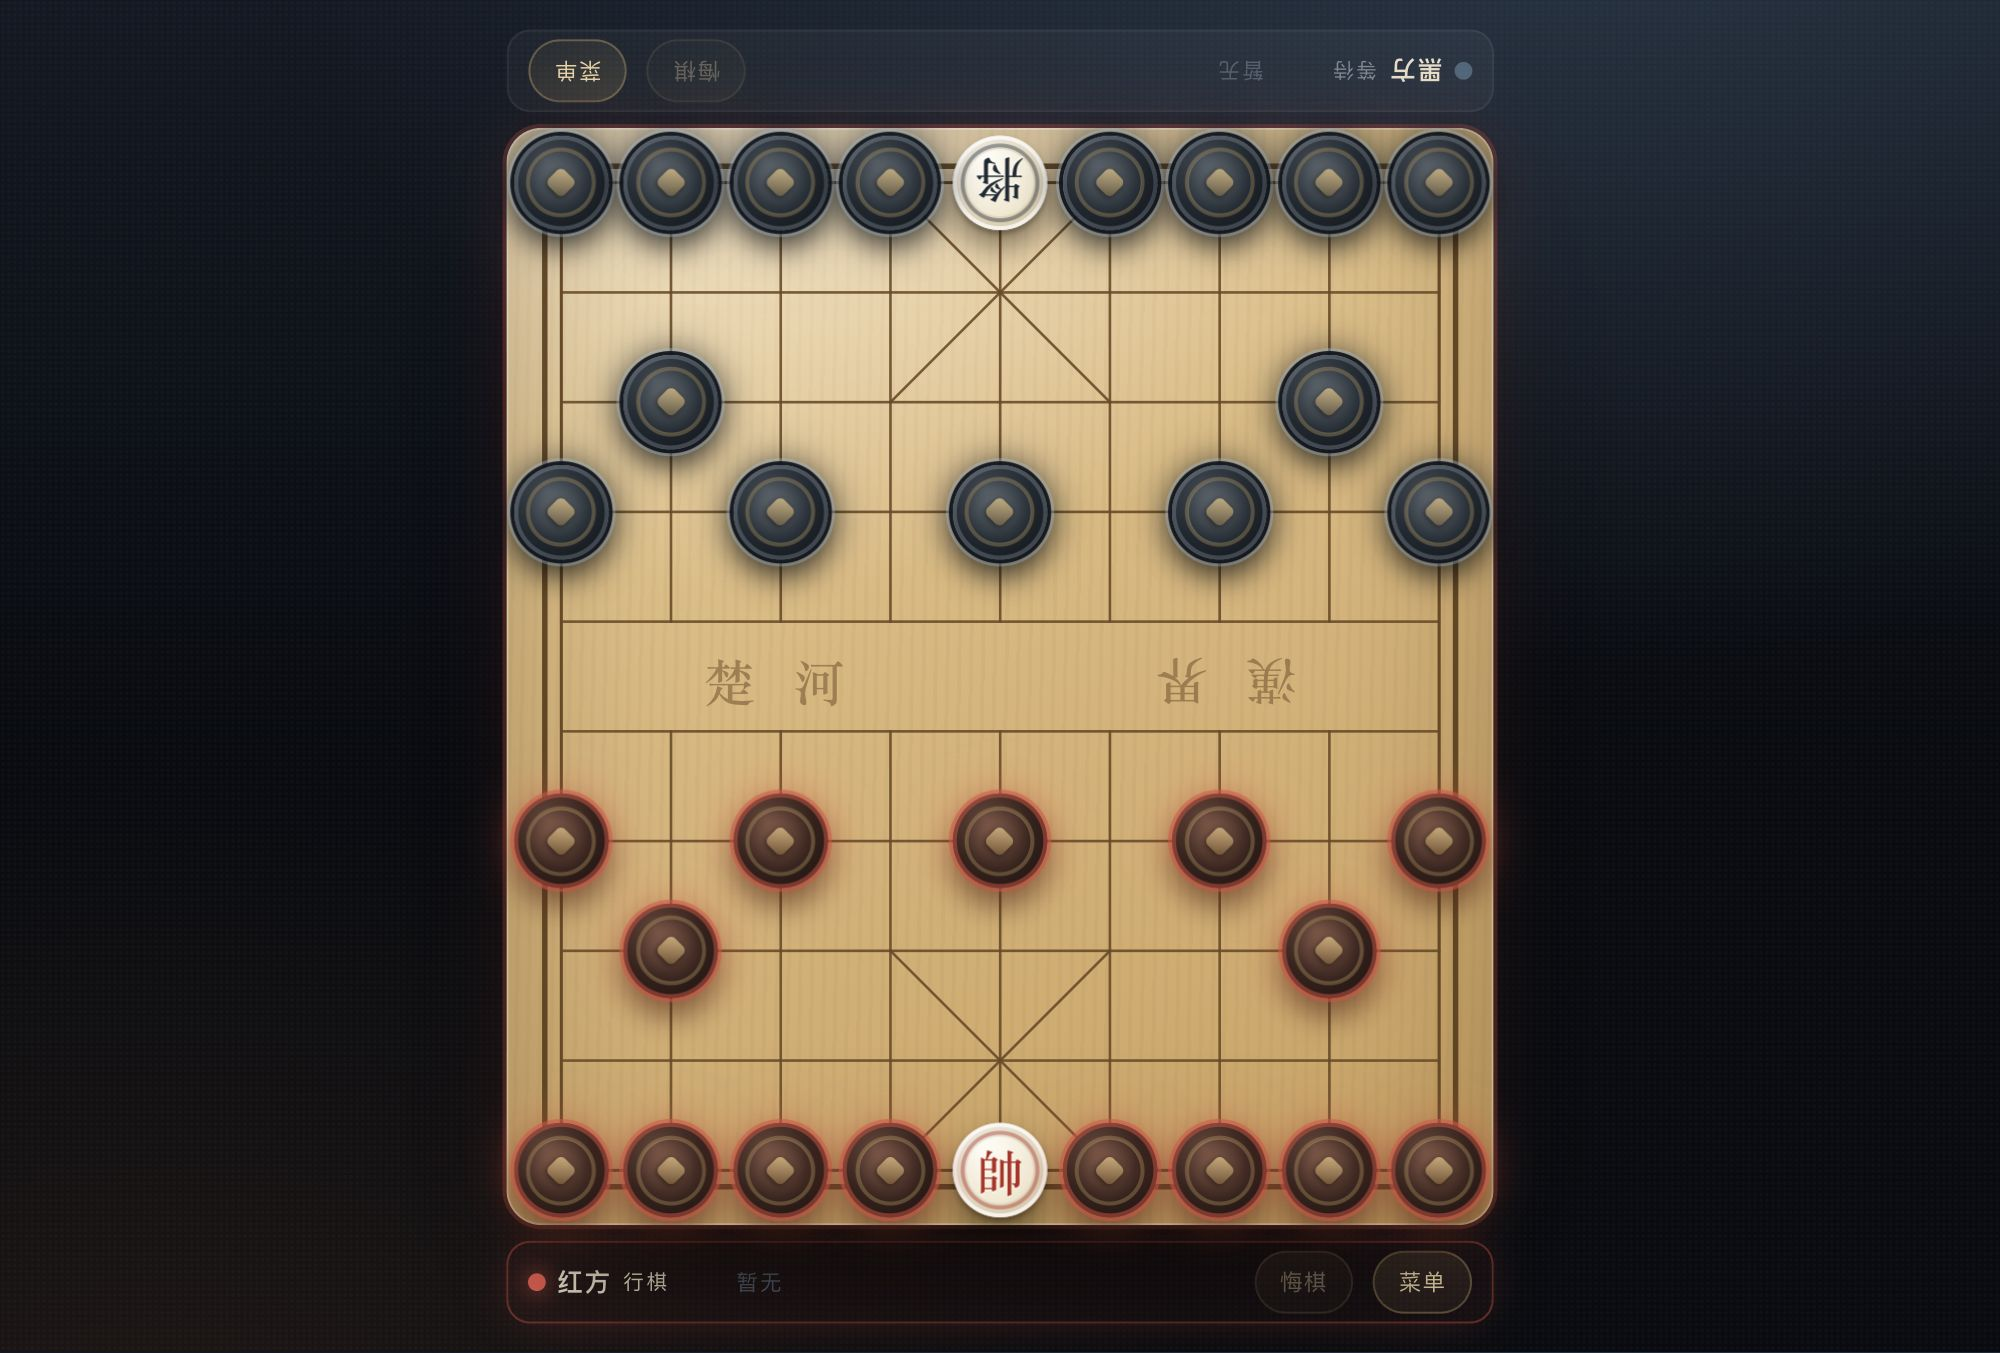
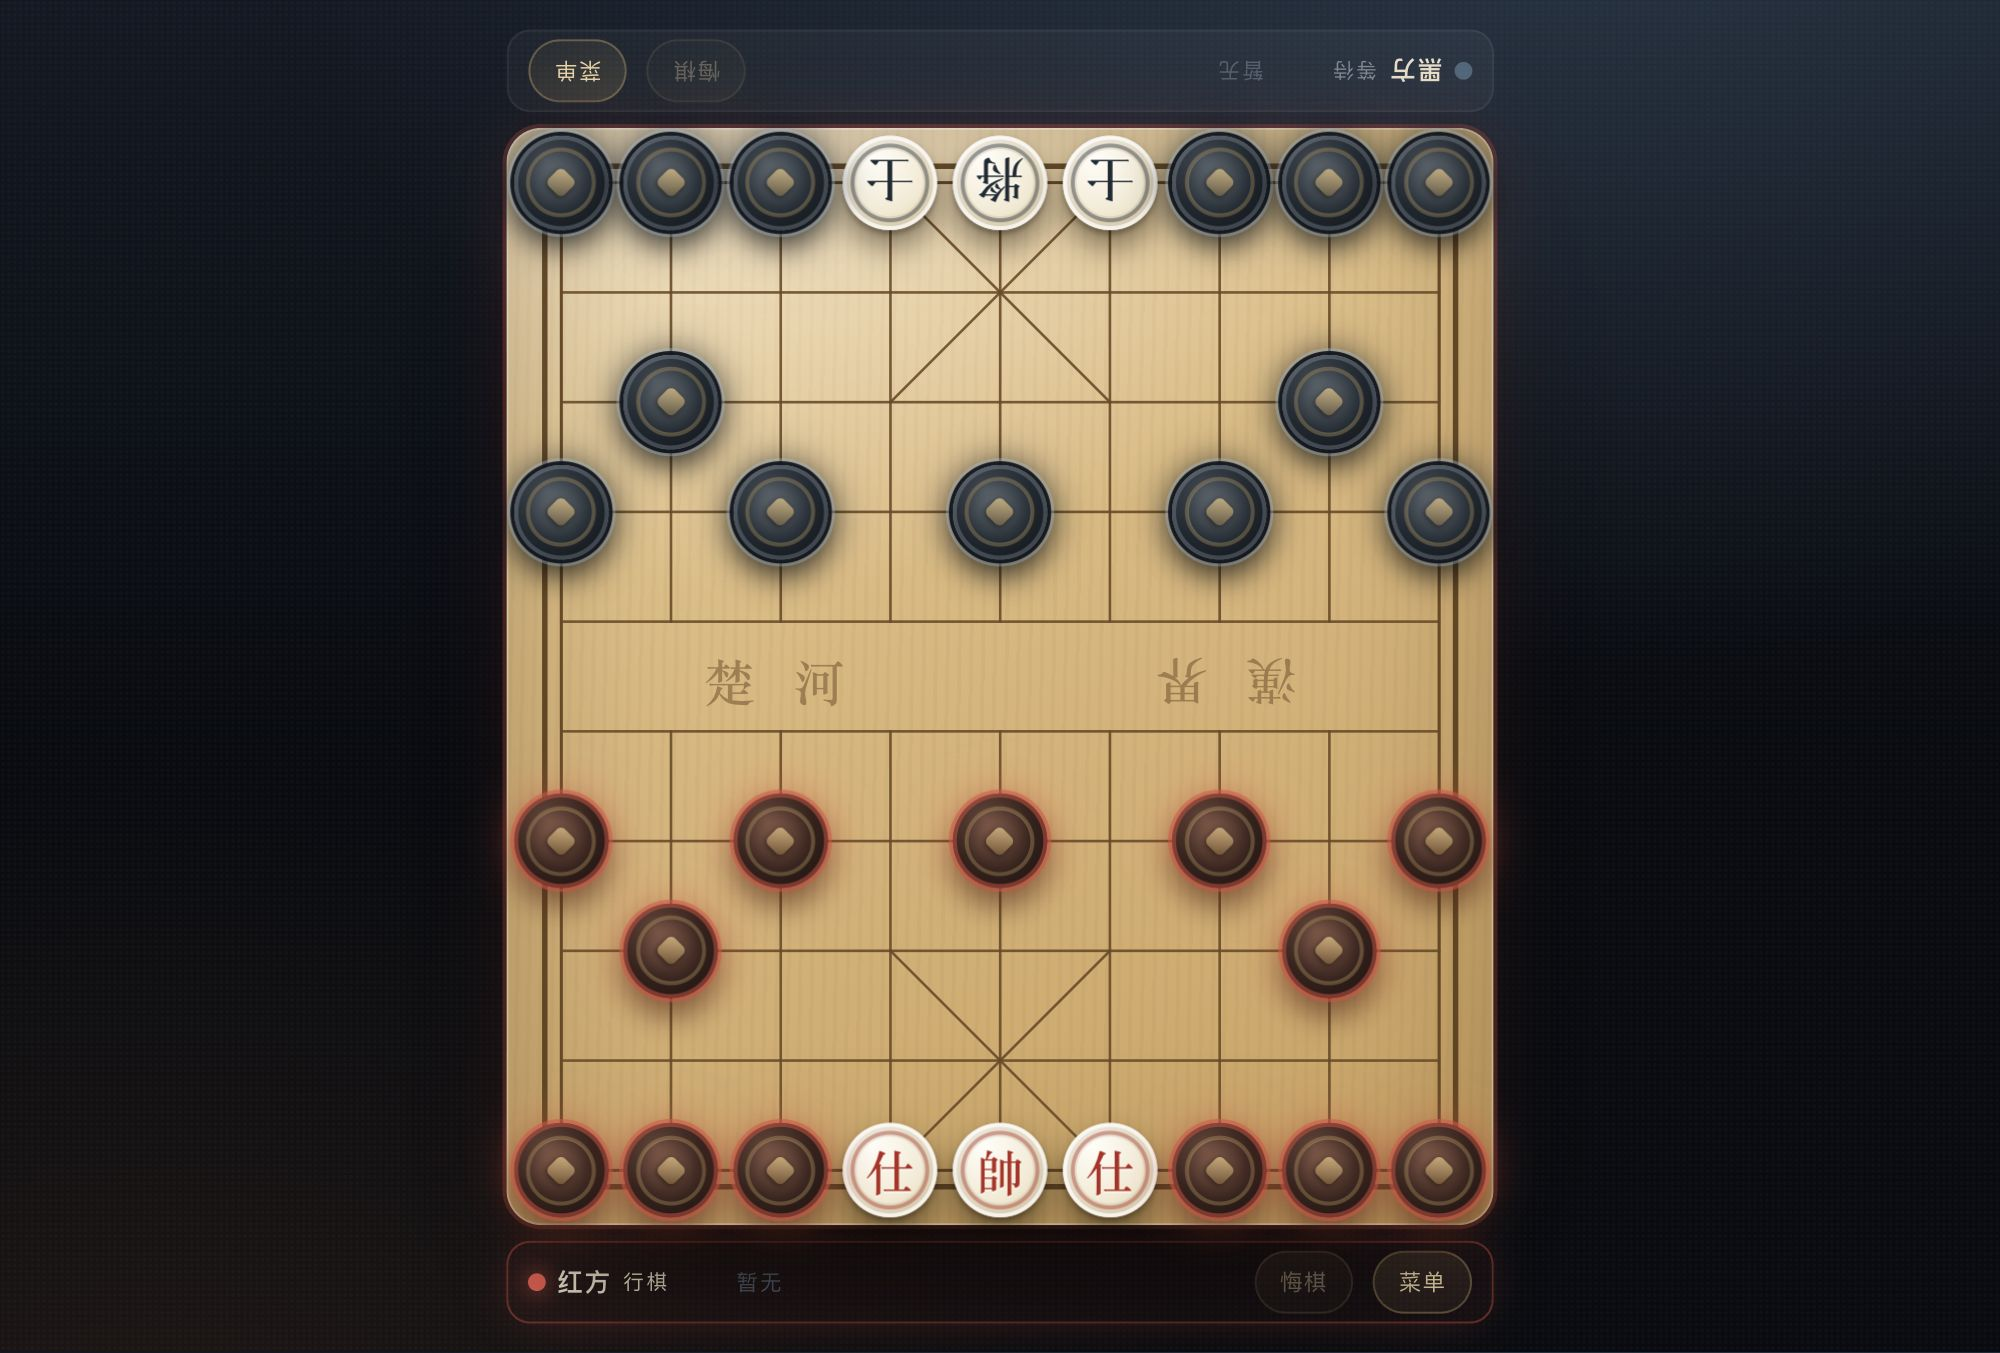
fix: 士与将帅一起明置固定九宫，其余 26 枚暗置

Changed region(s): [[0.403, 0.0931, 0.589, 0.1863], [0.527, 0.8071, 0.589, 0.9002], [0.403, 0.8071, 0.496, 0.9002]]

diff --git a/index.html b/index.html
@@ -5,7 +5,7 @@
   <meta name="viewport" content="width=device-width, initial-scale=1, maximum-scale=1, user-scalable=no" />
   <meta name="theme-color" content="#0b0f14" />
   <title>暗棋象棋 · 对弈</title>
-  <link rel="stylesheet" href="style.css?v=6" />
+  <link rel="stylesheet" href="style.css?v=7" />
 </head>
 <body data-turn="r">
   <div class="app">
@@ -102,7 +102,7 @@
       </div>
       <div class="modal-body">
         <h3>开局</h3>
-        <p>红帅固定在九宫 (4,9)、黑将固定在九宫 (4,0)，<b>开局即明棋</b>；其余 30 枚棋子（双方各 15 枚，不含将帅）<b>完全随机暗置</b>在其余 30 个点位上。</p>
+        <p>红帅 (4,9)、黑将 (4,0)，以及双方士/仕 (3,9)(5,9) / (3,0)(5,0)，<b>开局即明置并固定在九宫</b>；其余 26 枚棋子（双方各 13 枚）<b>完全随机暗置</b>在其余 26 个点位上。</p>
         <ul>
           <li>每个点位同时决定暗子的<b>位置兵种</b>和<b>位置归属</b>：红方阵地上的暗子归红方，黑方阵地上的归黑方。</li>
           <li>暗子先按位置身份行走，走完翻面，恢复真实兵种与真实归属。</li>
@@ -114,7 +114,7 @@
           <li>暗子先按它所在点位的<b>位置身份</b>行走 / 吃子（兵种走法 + 位置归属），走完<b>自动翻面</b>。</li>
           <li>翻面后露出它的<b>真实兵种与真实归属</b>，之后按真实身份行动——可能和刚才的走法、归属都不同。</li>
           <li>翻出是对方棋子：它留在落点，归对方所有。</li>
-          <li>吃暗子也有风险：对方阵地上的暗子翻开后可能是<b>你自己的</b>（将帅除外，将帅始终明置）。</li>
+          <li>吃暗子也有风险：对方阵地上的暗子翻开后可能是<b>你自己的</b>（将帅与士除外，它们始终明置）。</li>
         </ul>
 
         <h3>地域限制</h3>
@@ -151,7 +151,7 @@
         </ul>
 
         <h3>小提示</h3>
-        <p>双方阵容固定：每方 2 車、2 馬、2 相/象、2 仕/士、1 帥/將、2 炮、5 兵/卒。将帅明置九宫、士限九宫；其余暗子带阵营光晕（红 / 黑），按位置身份走，翻面后按真实身份走——“位置”和“真身”的错位就是全部乐趣。</p>
+        <p>双方阵容固定：每方 2 車、2 馬、2 相/象、2 仕/士、1 帥/將、2 炮、5 兵/卒。将帅与士明置九宫并限九宫；其余暗子带阵营光晕（红 / 黑），按位置身份走，翻面后按真实身份走——“位置”和“真身”的错位就是全部乐趣。</p>
       </div>
       <button id="btnOkRules" class="btn primary wide">明白了</button>
     </div>
@@ -159,7 +159,7 @@
 
   <div id="toast" class="toast" role="status"></div>
 
-  <script src="engine.js?v=6"></script>
-  <script src="ui.js?v=6"></script>
+  <script src="engine.js?v=7"></script>
+  <script src="ui.js?v=7"></script>
 </body>
 </html>

diff --git a/engine.js b/engine.js
@@ -1,9 +1,9 @@
 /* =========================================================
  *  暗棋象棋 · 规则引擎（纯逻辑，无 DOM 依赖）
  *  ---------------------------------------------------------
- *  规则 v6：
- *  1. 红帅固定在 (4,9)、黑将固定在 (4,0)，开局即为明棋；
- *     其余 30 枚棋子（双方各 15 枚，不含将帅）完全随机暗置在其余 30 个点位上。
+ *  规则 v7：
+ *  1. 红帅 (4,9)、黑将 (4,0)，以及双方的仕/士 (3,9)(5,9)/(3,0)(5,0)
+ *     开局即明置并固定在九宫；其余 26 枚棋子（双方各 13 枚）完全随机暗置。
  *  2. 每个点位同时决定暗子的「位置兵种」与「位置归属」：
  *     - 走法 = 该点位的标准兵种；
  *     - 归属 = 该点位标准兵的所属方。
@@ -100,16 +100,20 @@
 
       let id = 0;
 
-      /* 将帅明置于九宫 */
-      const generals = [
-        { side: RED, x: 4, y: 9 },
-        { side: BLACK, x: 4, y: 0 }
+      /* 将帅与士明置于九宫标准位置 */
+      const fixed = [
+        { side: RED, type: 'K', x: 4, y: 9 },
+        { side: BLACK, type: 'K', x: 4, y: 0 },
+        { side: RED, type: 'A', x: 3, y: 9 },
+        { side: RED, type: 'A', x: 5, y: 9 },
+        { side: BLACK, type: 'A', x: 3, y: 0 },
+        { side: BLACK, type: 'A', x: 5, y: 0 }
       ];
-      for (const g of generals) {
+      for (const g of fixed) {
         const p = {
           id: ++id,
           side: g.side,
-          type: 'K',
+          type: g.type,
           x: g.x,
           y: g.y,
           revealed: true,
@@ -119,17 +123,19 @@
         this.grid[g.y][g.x] = p;
       }
 
-      /* 其余 30 枚身份完全随机，落到除将帅外的 30 个点位 */
+      /* 其余 26 枚身份完全随机，落到除将帅/士外的 26 个点位 */
       const idents = [];
       for (const side of [BLACK, RED]) {
         for (const s of STANDARD) {
-          if (s[0] === side && s[1] !== 'K') idents.push({ side, type: s[1] });
+          if (s[0] === side && s[1] !== 'K' && s[1] !== 'A') {
+            idents.push({ side, type: s[1] });
+          }
         }
       }
       shuffle(idents);
 
       const squares = STANDARD
-        .filter(s => s[1] !== 'K')
+        .filter(s => s[1] !== 'K' && s[1] !== 'A')
         .map(s => [s[2], s[3]]);
 
       idents.forEach((d, i) => {

diff --git a/README.md b/README.md
@@ -1,10 +1,10 @@
 # 暗棋象棋 · 位置身份 · 将帅明置
 
-红帅、黑将**开局明置九宫**，其余 30 枚棋子随机暗置。暗子**保留当前位置的兵种与所属方**，先按位置身份走子/吃子，走完才翻面；翻面后恢复真实身份——刚才像車一样走，翻开却可能是兵，甚至变成对方棋子。
+红帅、黑将与双方的士/仕**开局明置并固定在九宫**，其余 26 枚棋子随机暗置。暗子**保留当前位置的兵种与所属方**，先按位置身份走子/吃子，走完才翻面；翻面后恢复真实身份——刚才像車一样走，翻开却可能是兵，甚至变成对方棋子。
 
 ## 界面
 
-| 开局（将帅明置 + 30 枚暗子） | 中局（翻面、吃子、战利品） |
+| 开局（将帅士明置 + 26 枚暗子） | 中局（翻面、吃子、战利品） |
 | --- | --- |
 | ![开局](images/01-start.jpg) | ![中局](images/02-midgame.jpg) |
 
@@ -32,8 +32,8 @@ python3 -m http.server 4173
 ## 规则
 
 ### 开局
-- 红帅固定在九宫 (4,9)、黑将固定在九宫 (4,0)，**开局即明棋**。
-- 其余 30 枚棋子（双方各 15 枚，不含将帅）**完全随机暗置**在其余 30 个点位上。
+- 红帅 (4,9)、黑将 (4,0)，以及双方士/仕 (3,9)(5,9) / (3,0)(5,0)，**开局即明置并固定在九宫**。
+- 其余 26 枚棋子（双方各 13 枚）**完全随机暗置**在其余 26 个点位上。
 - 每个点位同时决定暗子的**位置兵种**与**位置归属**：
   - **位置兵种**：标准棋局里该位置的兵种，决定走法。
   - **位置归属**：标准棋局里该位置属于红还是黑。红方阵地上的暗子归红方管，黑方阵地上的归黑方管。
@@ -43,7 +43,7 @@ python3 -m http.server 4173
 - 暗子先按所在点位的**位置身份**（兵种 + 归属）行走 / 吃子，走完**自动翻面**。
 - 翻面后露出**真实兵种与真实归属**，之后按真实身份行动——可能和刚才的走法、归属都不同。
 - 翻出是对方棋子：它留在落点，归对方所有。
-- 吃暗子也有风险：对方阵地上的暗子翻开后可能是**你自己的**（将帅除外，将帅始终明置）。
+- 吃暗子也有风险：对方阵地上的暗子翻开后可能是**你自己的**（将帅与士除外，它们始终明置）。
 
 ### 明子走法
 | 棋子 | 走法 |
